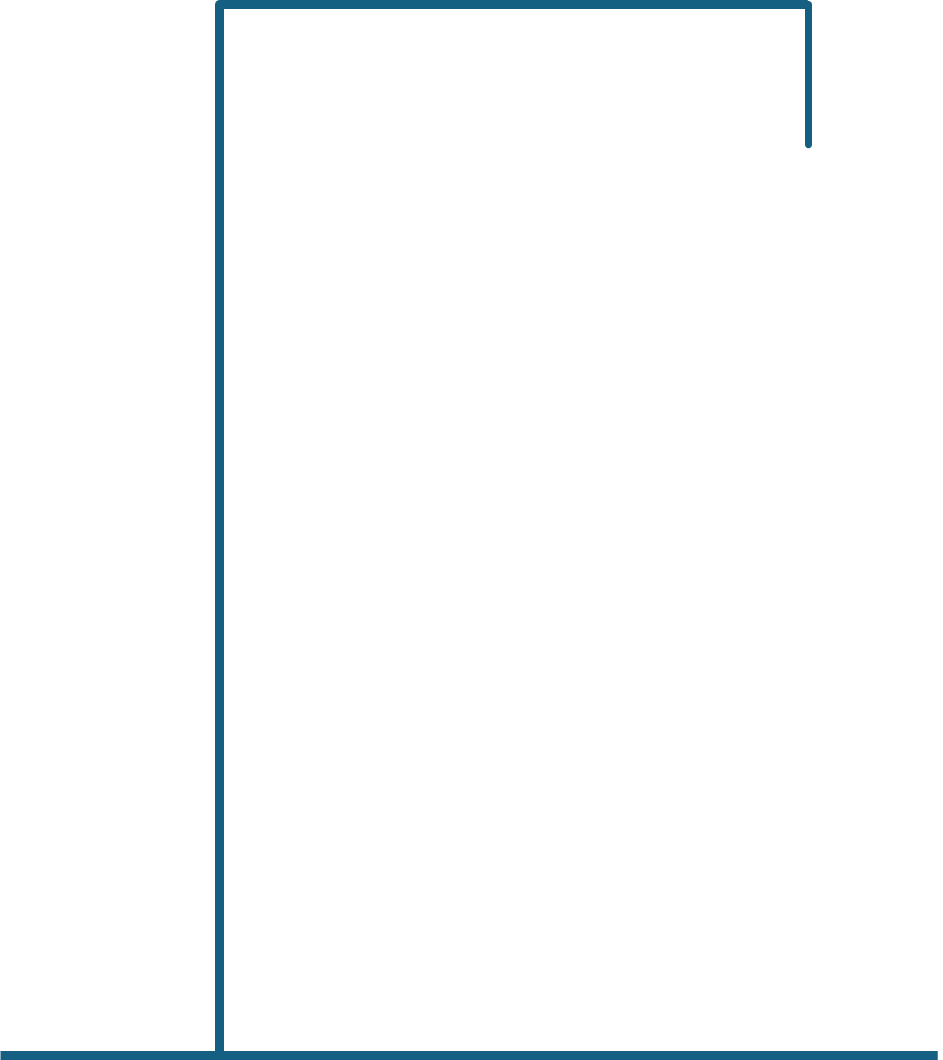
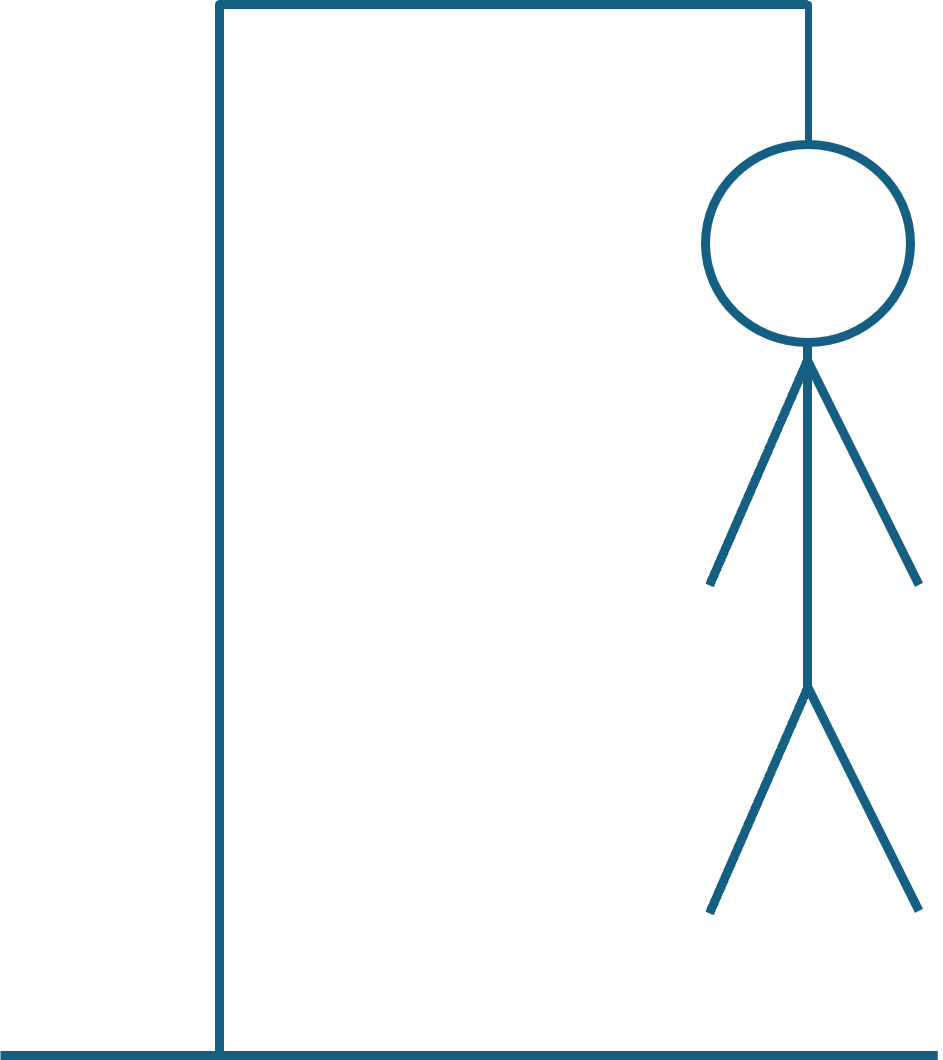
codificar funcion de transicion
Se recicla el estado anterior. -se borra los elementos anteriores. -se crea la function adivinar

diff --git a/src/logica.js b/src/logica.js
@@ -53,7 +53,7 @@ function cancelar() {
 
     var juego = {
         palabra: "ALURA",
-        estado: 1,
+        estado: 7,
         adivinado:["A","L"],
         errado: ["B","J","K","C"]
     }
@@ -68,12 +68,19 @@ function cancelar() {
         //Actualizar la imagen del muñeco
         var $elem
         $elem = $html.hombre
-        $elem.src = "images/estado" + juego.estado + ".png";
+
+        var estado = juego.estado
+        if (estado === 8){        // Recicla la imagen de un estado anterior 
+            estado = juego.previo
+        }
+
+        $elem.src = "images/estado" + estado + ".png";
 
         // Creamos las letras adivinadas
         var palabra = juego.palabra       // Obtiene la palabra del objeto 'juego'
         var adivinado = juego.adivinado
         $elem = $html.adivinado
+        $elem.innerHTML = ""       // Borramos los elementos anteriores
         for (let letra of palabra) {   // Itera sobre cada letra de la palabra
             let $span = document.createElement("span")  // Crea un nuevo elemento <span> para representar la letra
             let $txt = document.createTextNode("")      // Crea un nodo de texto vacío para contener la letra
@@ -90,6 +97,7 @@ function cancelar() {
         // Creamos las letras erradas
         var errado = juego.errado
         $elem = $html.errado
+        $elem.innerHTML = ""       // Borramos los elementos anteriores
         for (let letra of errado) {    // Recorremos las letras que se han errado
             let $span = document.createElement("span")
             let $txt = document.createTextNode(letra)
@@ -99,7 +107,59 @@ function cancelar() {
         }
     }
 
-    console.log(juego);
-    dibujar(juego);
+    function adivinar (juego, letra){
+        var estado = juego.estado
+        // si se gana o pierde, termina el juego
+        if ( estado === 1 || estado === 8){
+            return
+        }
 
+        var adivinado = juego.adivinado
+        var errado = juego.errado
+        // si se a adivinado o errado la letra 
+        if(adivinado.indexOf(letra) >= 0 || errado.indexOf(letra) >= 0){
+            return
+        }
+
+        var palabra = juego.palabra
+        // Si la letra ingresada hace parte de la pabra
+        if(palabra.indexOf(letra) >= 0){
+            let ganado = true
+            // Revisa si se llega al estado ganado
+            for (let verificarletra  of palabra){
+                if(adivinado.indexOf(verificarletra) < 0 && verificarletra != letra ) {
+                    ganado = false
+                    juego.previo = juego.estado   // muestra el estado antes de ganar
+                    break
+                }
+            }
+            // Si ya se a ganado. se debe indicar
+            if(ganado){
+                juego.estado = 8
+            }
+            // Se agrega la letra a la palbra que esta conforma
+            adivinado.push(letra)
+        }else{
+        // si la letra ingreada no hace parte de la palabra el muñeco cammbiara de estado
+            juego.estado--
+            // Agregamos la letra errada a la lista de las letras erradas
+            errado.push(letra)
+        }
+    }
+
+    //captura las pulsaciones de teclas en la ventana del navegador, convierte las letras a mayúscula y luego intenta
+    // adivinar la letra presionada utilizando una función llamada adivinar. Después de intentar adivinar la letra, actualiza la representación visual del juego llamando a la función dibujar.
+
+    window.onkeypress = function adivinarletra(e){ //se ejecutará cuando se presione una tecla. Toma un parámetro e
+        var letra = e.key  //Obtiene la tecla presionada del objeto de evento e y la guarda en la variable letra.
+        letra = letra.toUpperCase() //Convierte la tecla presionada a mayúscula
+        if(/[^A-ZÑ]/.test(letra)){  // Verifica que no se ingrese un caracter erroneo
+            return
+        }
+        adivinar(juego, letra)
+        dibujar(juego) // Al cambiar el estado por la letras ingresadas se debe volver a dibujar el muñeco
+    }
+
+    dibujar(juego)
+    
 }());

diff --git a/src/output.css b/src/output.css
@@ -568,10 +568,6 @@ video {
   margin-top: 1rem;
 }
 
-.mr-1 {
-  margin-right: 0.25rem;
-}
-
 .inline-block {
   display: inline-block;
 }
@@ -656,10 +652,6 @@ video {
   border-radius: 1.5rem;
 }
 
-.rounded {
-  border-radius: 0.25rem;
-}
-
 .border {
   border-width: 1px;
 }
@@ -705,16 +697,6 @@ video {
 .py-8 {
   padding-top: 2rem;
   padding-bottom: 2rem;
-}
-
-.px-2 {
-  padding-left: 0.5rem;
-  padding-right: 0.5rem;
-}
-
-.py-1 {
-  padding-top: 0.25rem;
-  padding-bottom: 0.25rem;
 }
 
 .text-center {
